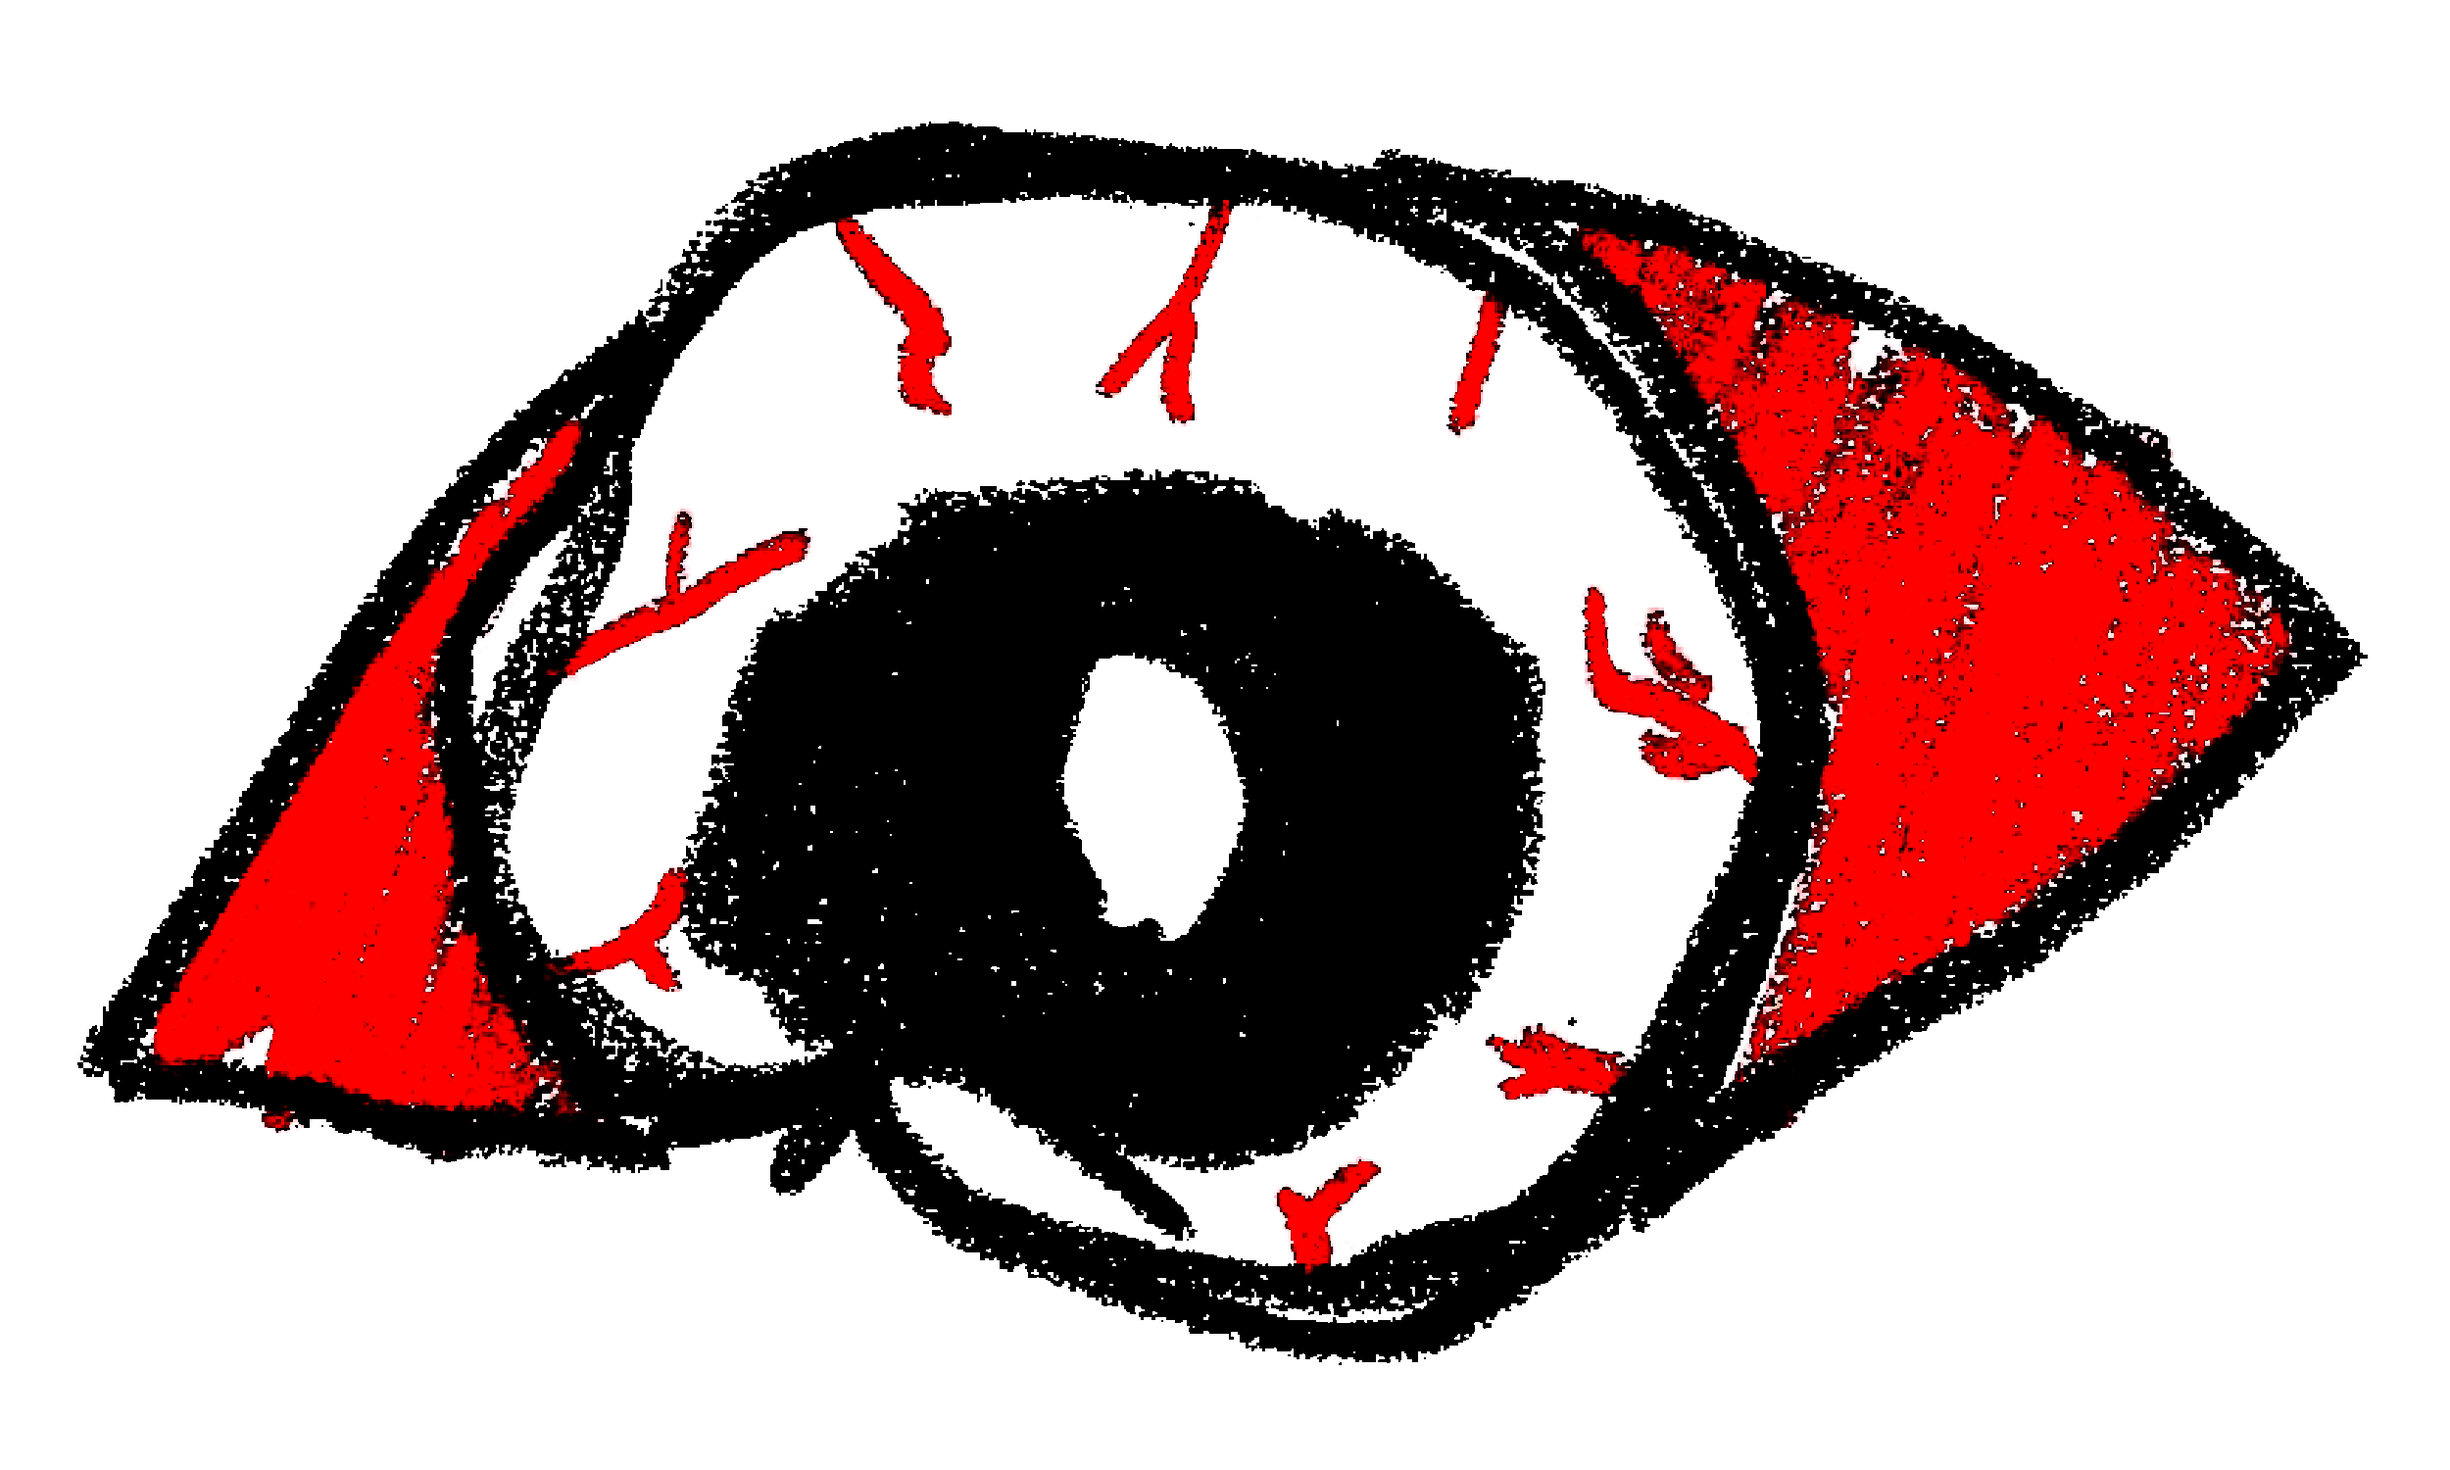
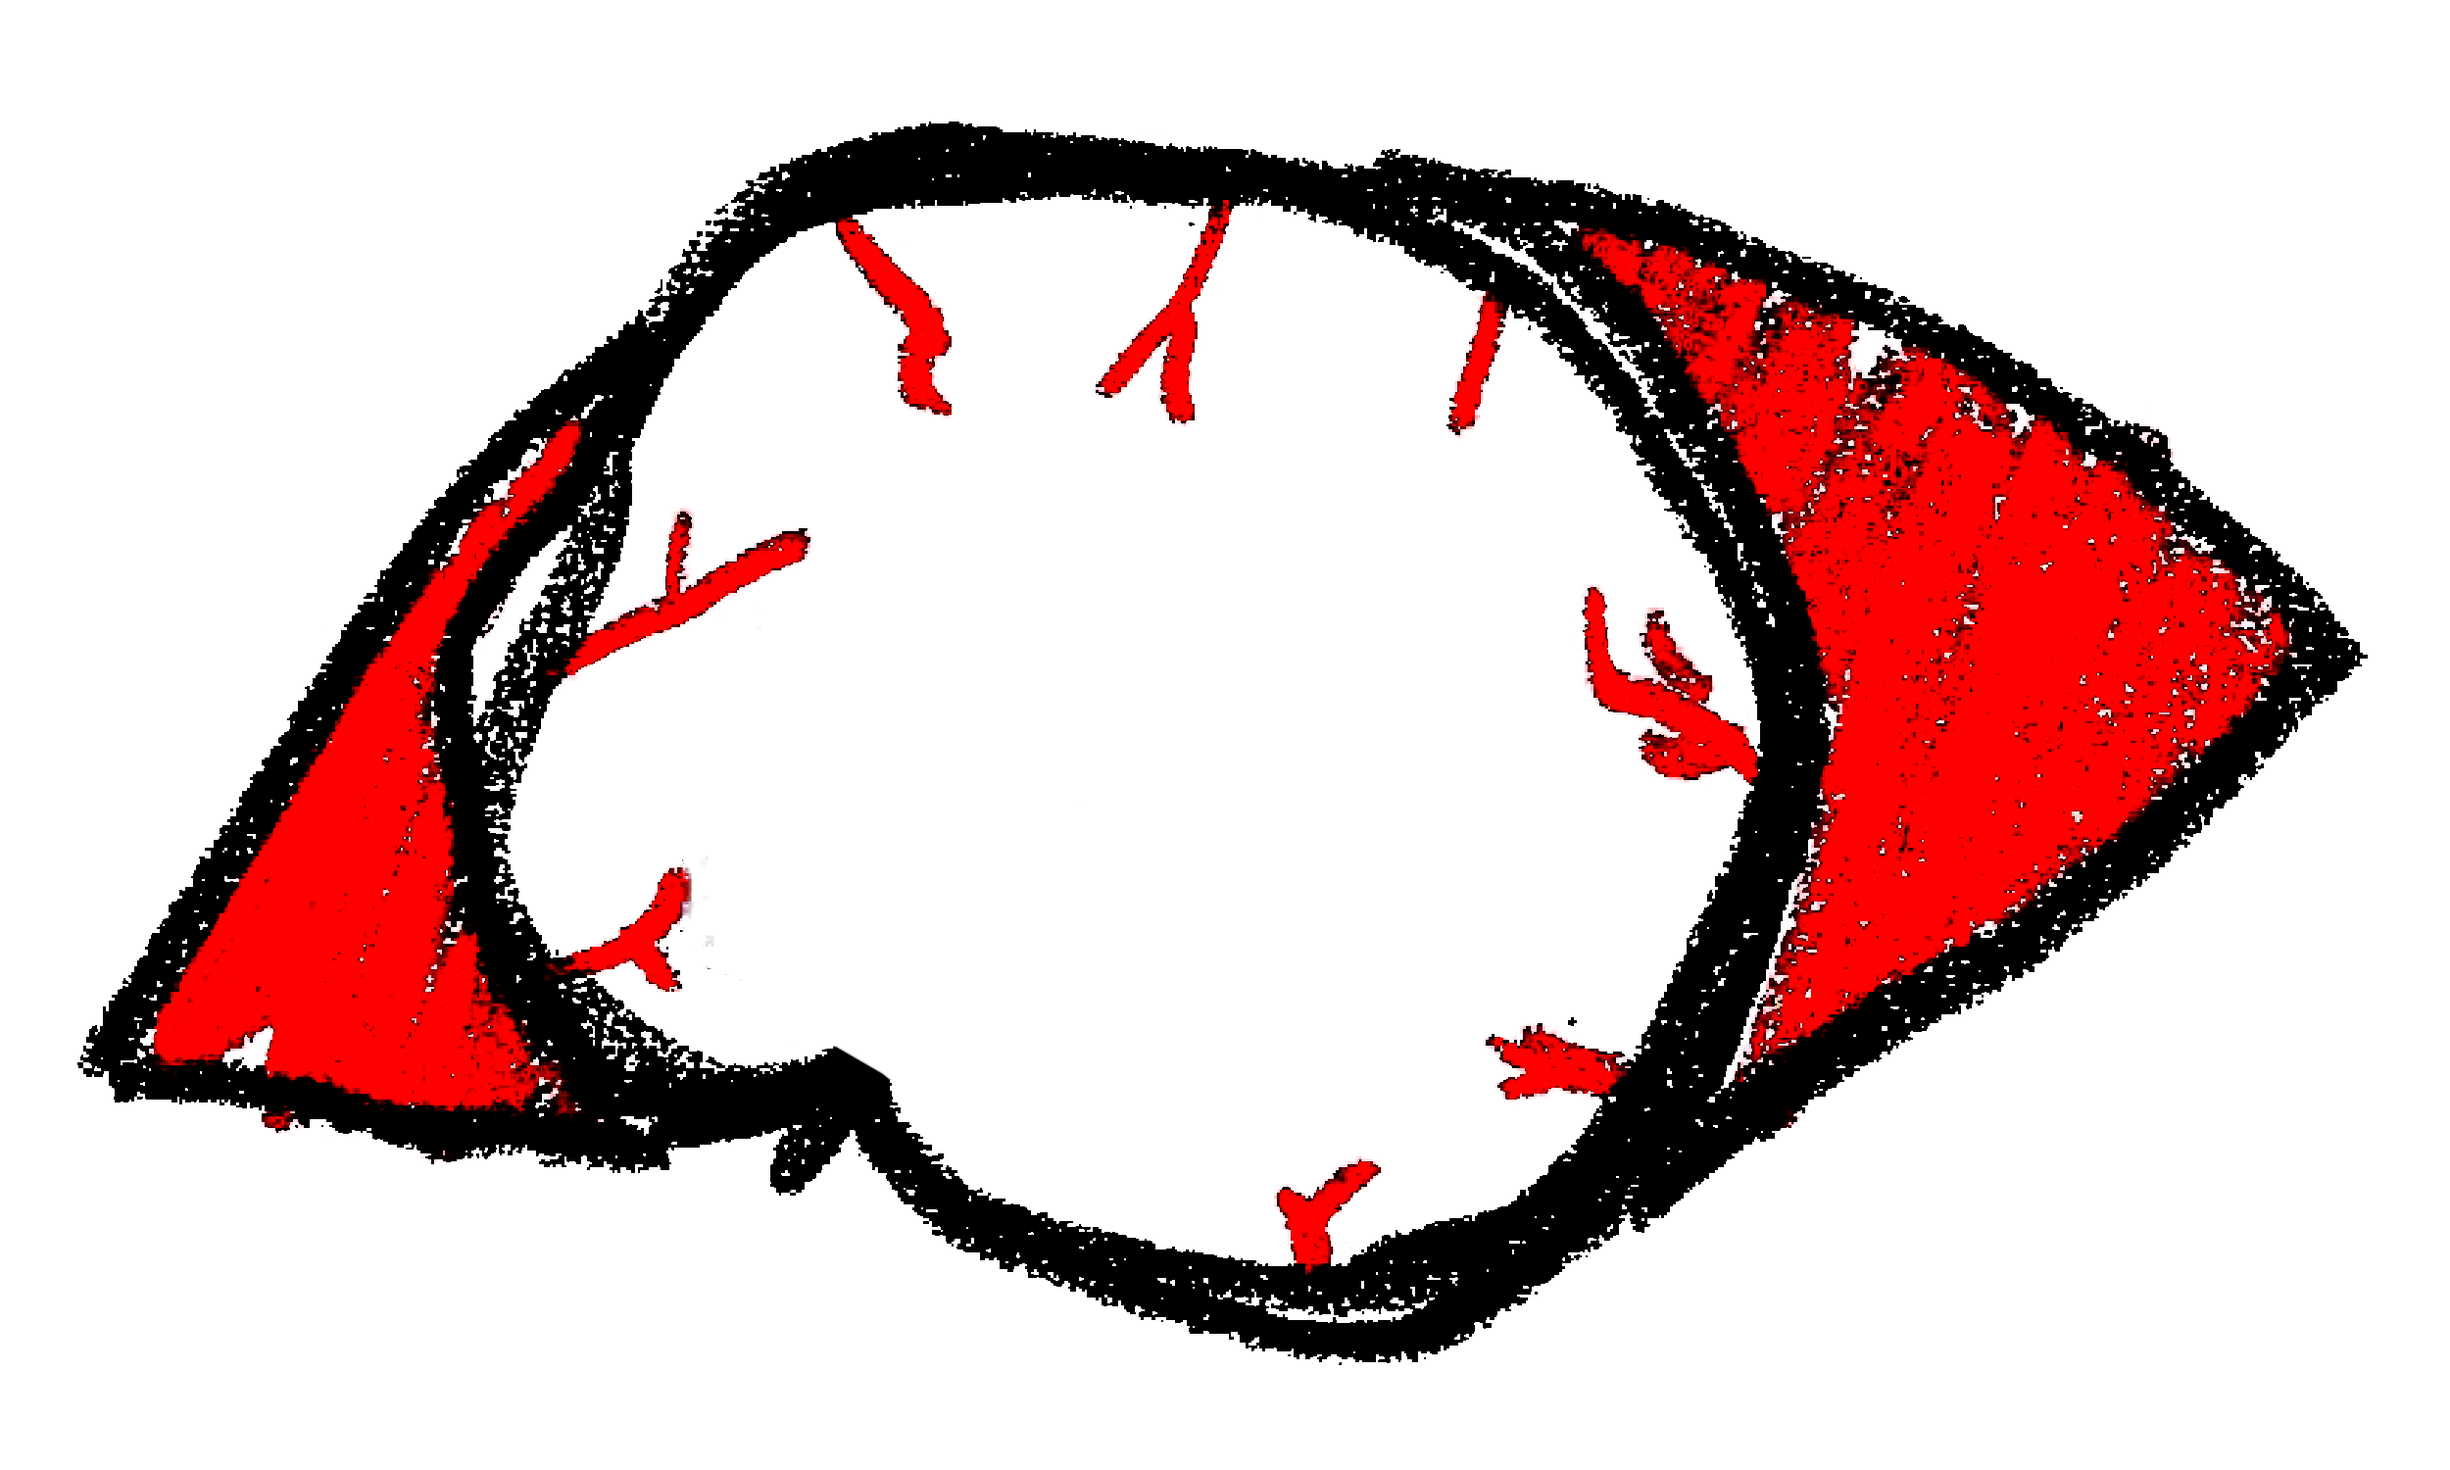
initial commit

Changed region(s): [[0.2808, 0.3067, 0.6552, 0.8587]]

diff --git a/stylesheet.css b/stylesheet.css
@@ -7,10 +7,23 @@ body {
 	margin-right: 0px;
 	margin-bottom: 0px;
 	background-image: none;
-	background-color:#FFFFFF;
-	color:#EC2027;
+	background-color:#EC2027;
+	color:#FFFFFF;
 	font-family: "Times New Roman", Times, serif;
 }
+
+#image {
+	position: absolute;
+}
+
+#eye{
+	margin: 0;
+	position: absolute;
+	top: 50%;
+	left: 50%;
+	-ms-transform: translate(-50%, -50%);
+	transform: translate(-50%, -50%);
+}
 
 body.flash {
 	background-image: url(img/flicker.gif);
@@ -43,16 +56,6 @@ a:link, a:visited, a:active {
 a:hover {
 	color: white;
 	text-decoration: none;
-}
-
-#enter {
-	margin: 0;
-	position: absolute;
-	top: 50%;
-	left: 50%;
-	-ms-transform: translate(-50%, -50%);
-	transform: translate(-50%, -50%);
-	text-align: center;
 }
 
 #video {

diff --git a/index.html b/index.html
@@ -12,13 +12,20 @@
 
 <link rel="stylesheet" type="text/css" href="stylesheet.css" media ="all">
 
-<script type="text/javascript" src="function.js"></script>
+<script src="http://code.jquery.com/jquery-1.11.0.min.js"></script>
 
 </head>
 
 <body>
 
-<img id="image" src="img/eyeball.png" width="500">
+<div id="eye">
+<img src="img/eyeball.png" width="500" />
+</div>
 
+<img id="image" src="img/iris.png" width="500" />
+
+<script type="text/javascript" src="function.js"></script>
+
+</div>
 </body>
 </html>

diff --git a/function.js b/function.js
@@ -5,8 +5,6 @@ $(document).mousemove(function(e) {
   });
 });
 
-
-/*
 var
     hoverBox   = $('.box-selector'),
     hoverImage = $('#image');
@@ -16,11 +14,12 @@ hoverBox.mousemove(function(e) {
         left: e.pageX,
         top:  e.pageY
     });
-}).mouseout(function() {
+})
+
+.mouseout(function() {
     hoverImage.css({
         left: -10000,
         top:  -10000
     });
 });
-*/
 // JavaScript Document
